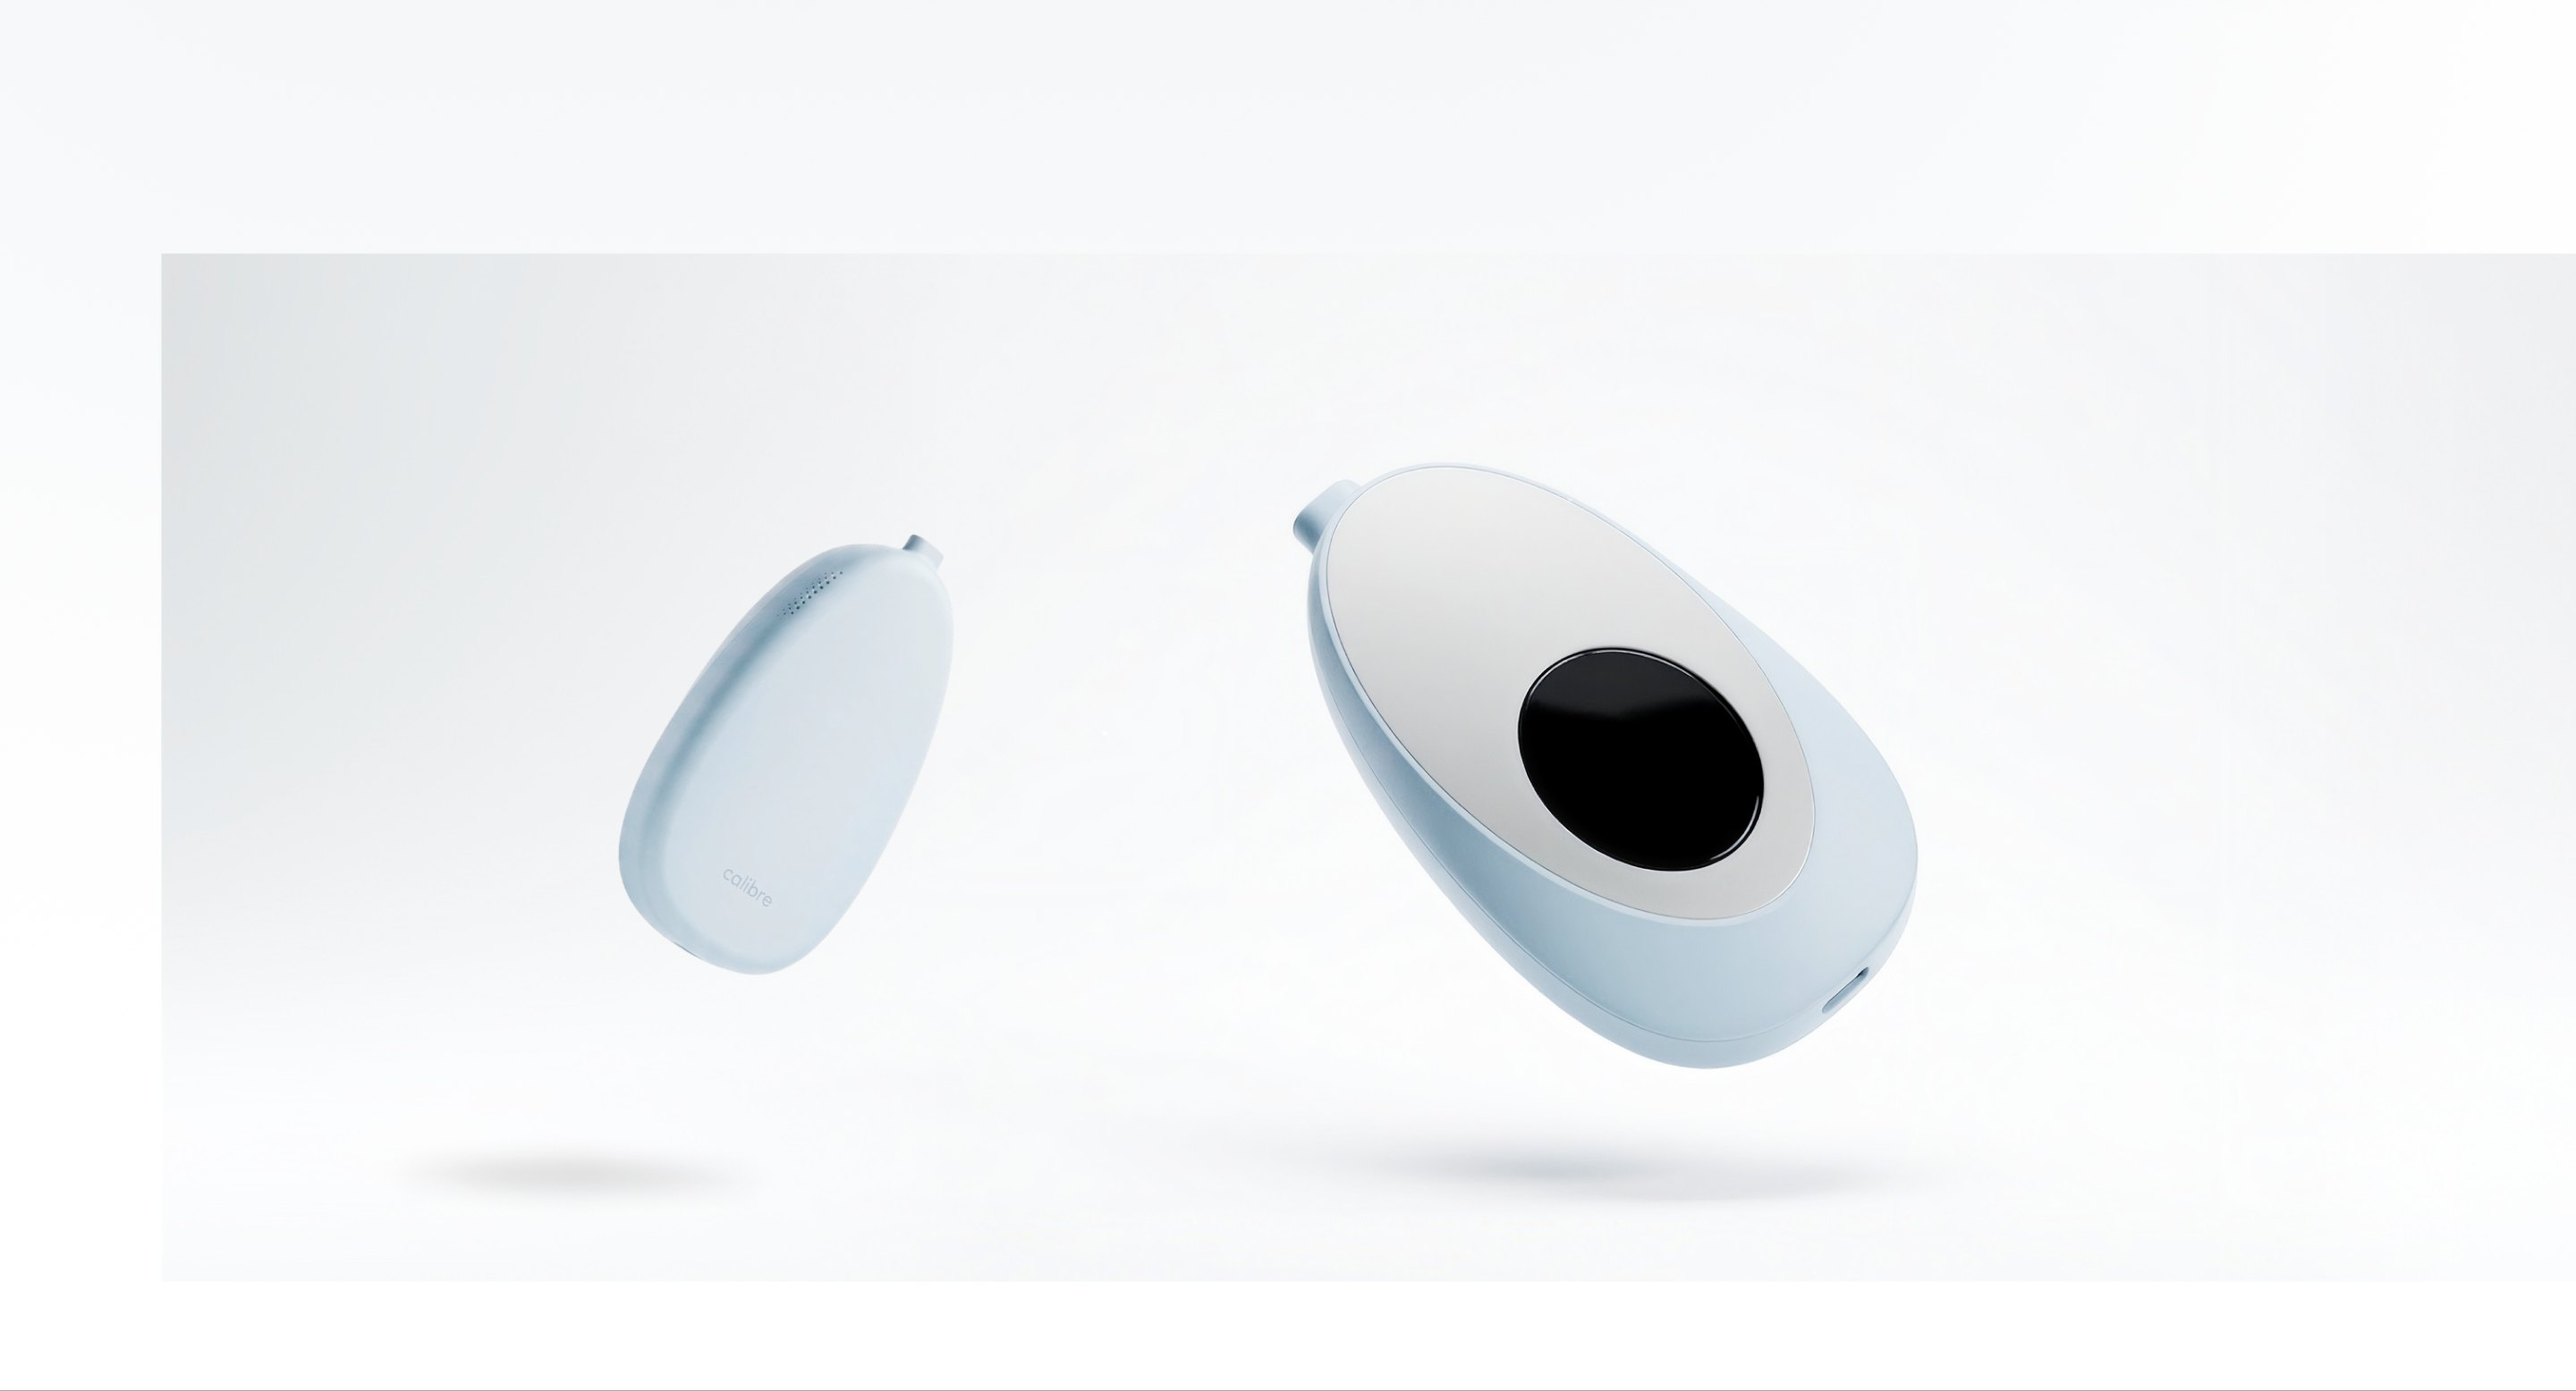
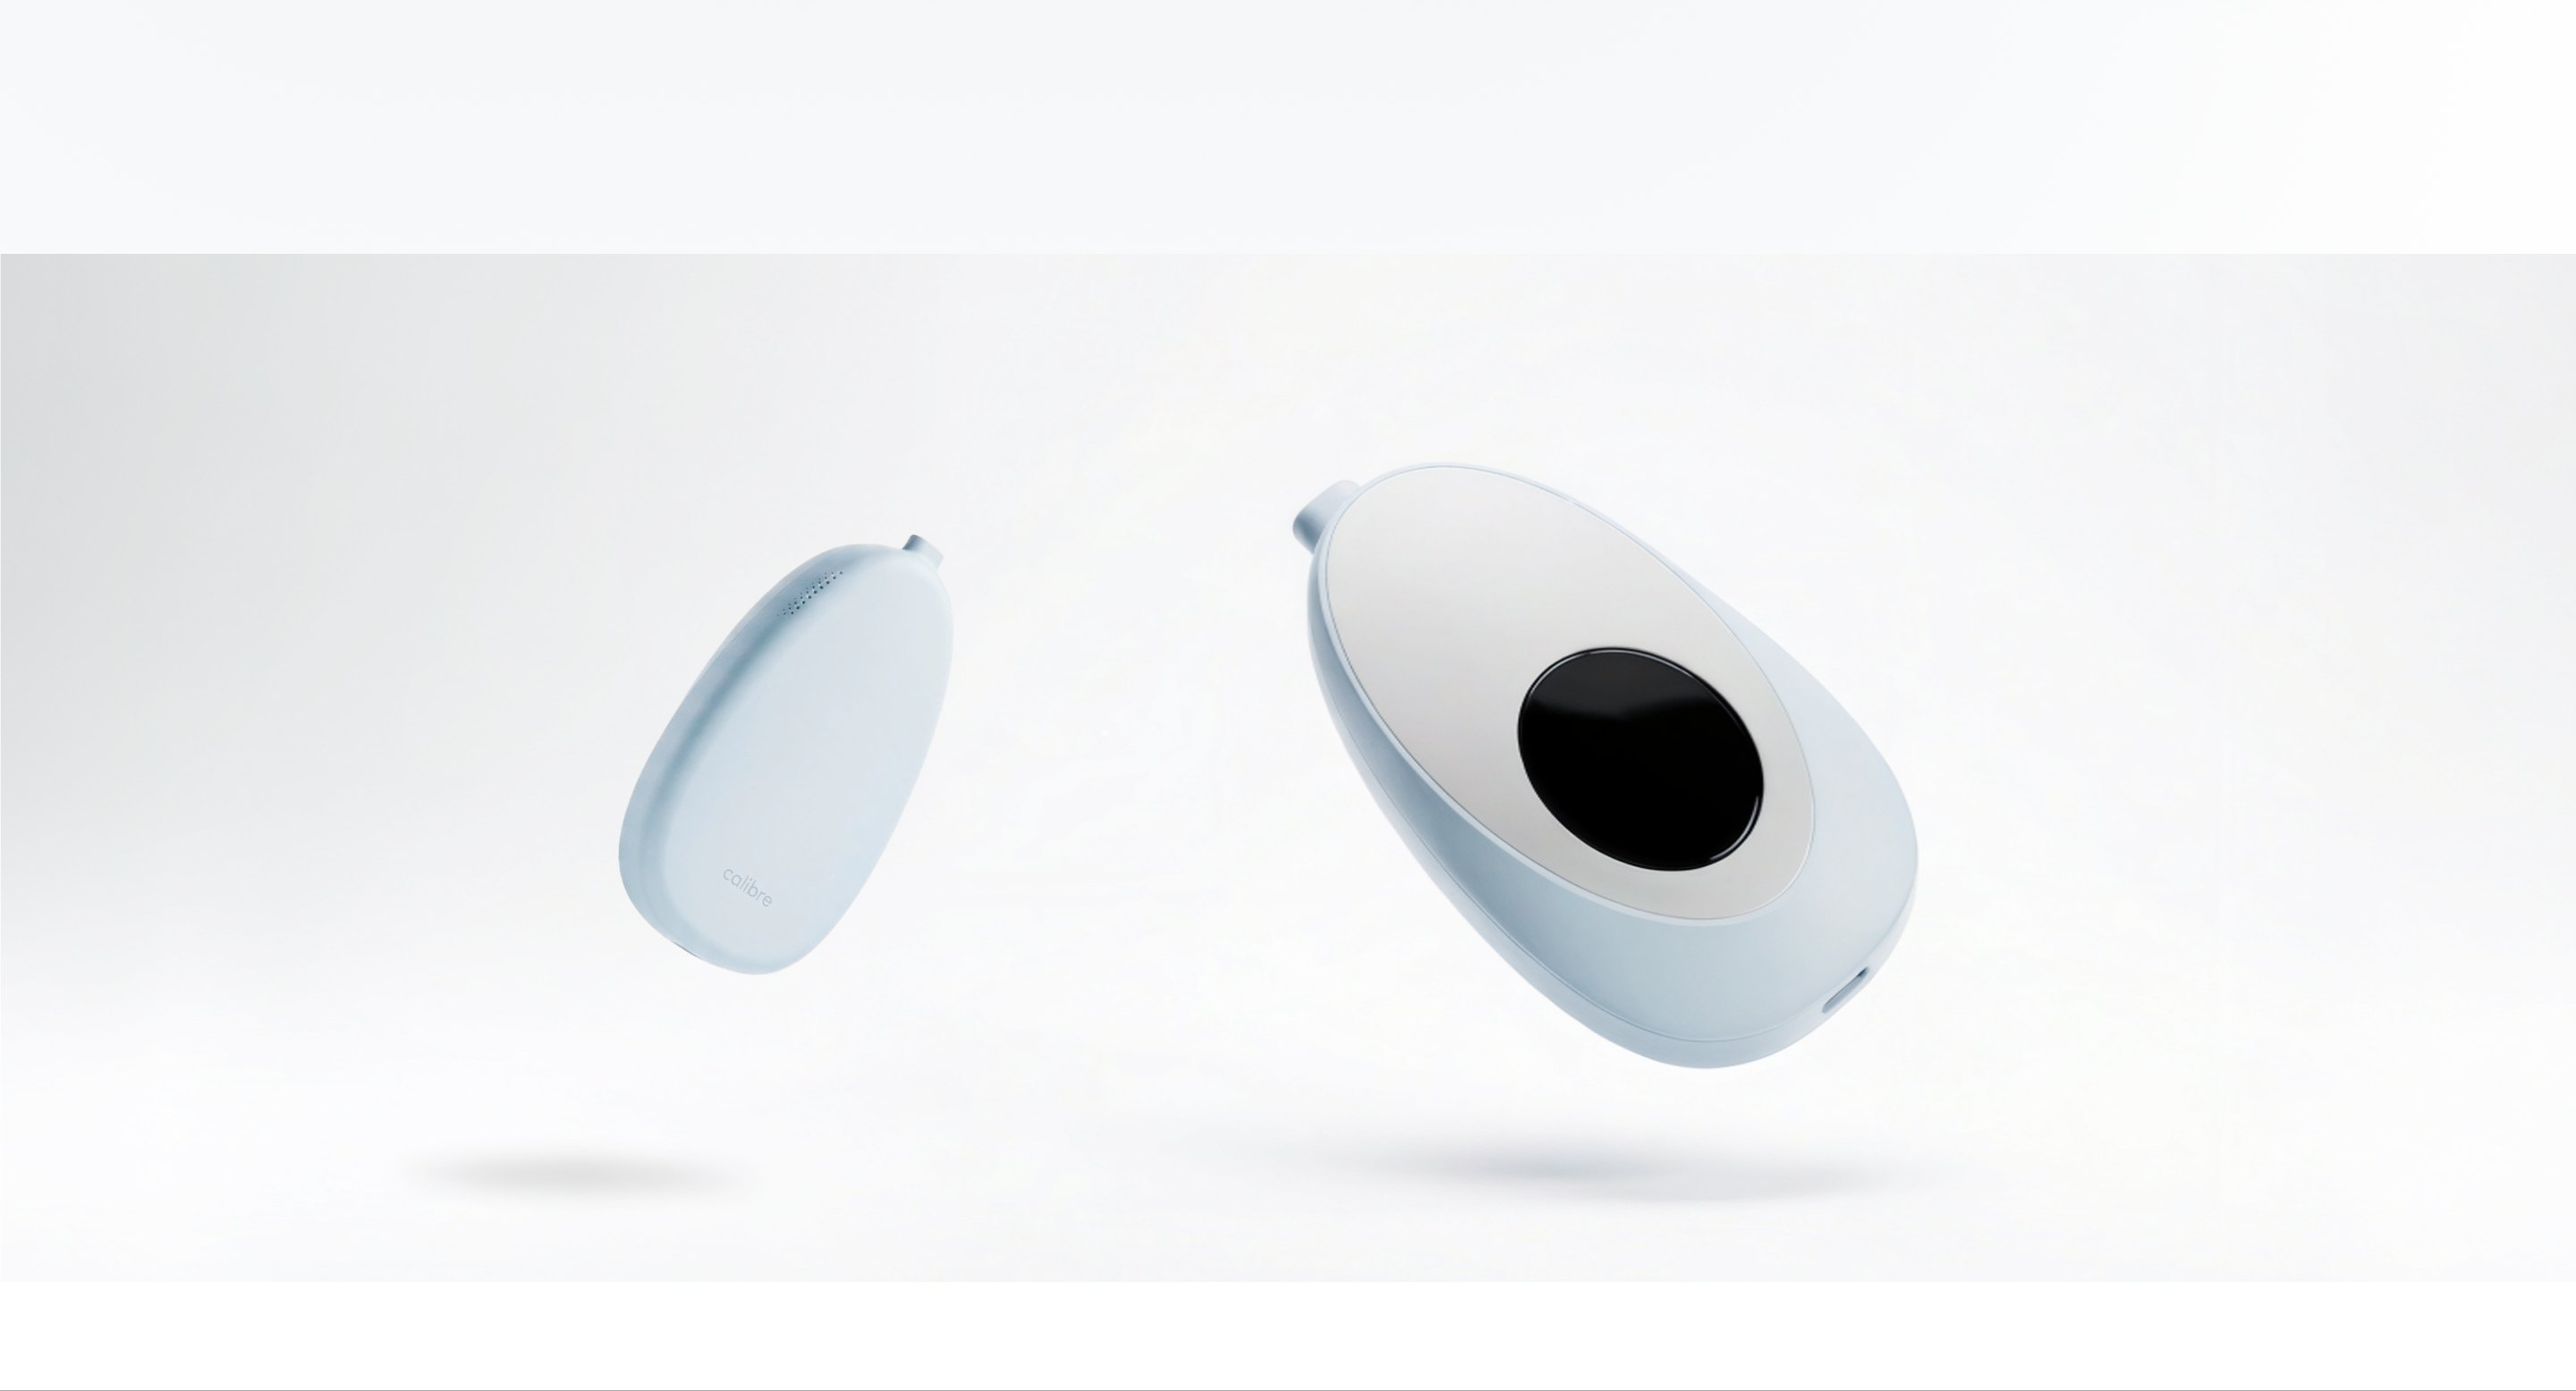
Calbre: full-bleed final render from Figma

Changed region(s): [[0.0, 0.1851, 0.0625, 0.5861]]

diff --git a/calbre.html b/calbre.html
@@ -79,7 +79,7 @@ body{-webkit-font-smoothing:antialiased;overflow-x:hidden}
 <img class="tile" src="images/calbre-figma/t3.jpg?v=1029" style="top:4500px;height:1500px" alt="" loading="lazy">
 <img class="tile" src="images/calbre-figma/t4.jpg?v=1029" style="top:6000px;height:1500px" alt="" loading="lazy">
 <img class="tile" src="images/calbre-figma/t5.jpg?v=1029" style="top:7500px;height:1500px" alt="" loading="lazy">
-<img class="tile" src="images/calbre-figma/t6.jpg?v=1029" style="top:9000px;height:778px" alt="" loading="lazy">
+<img class="tile" src="images/calbre-figma/t6.jpg?v=1029b" style="top:9000px;height:778px" alt="" loading="lazy">
 <p class="t nw" style="left:167px;top:218px;width:388px;"><span class="k43">Calbre</span></p>
 <p class="t" style="left:170px;top:378px;width:624px;"><span class="k44">A breath companion for weight loss.</span></p>
 <p class="t nw" style="left:90px;top:750px;width:1025px;"><span class="k0">Losing weight doesn't guarantee long-term weight maintenance.</span></p>
